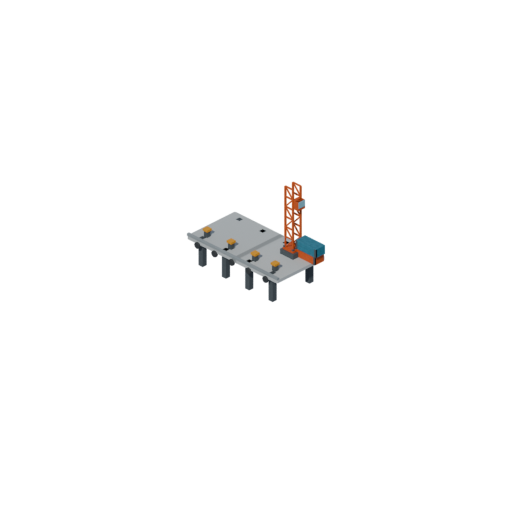
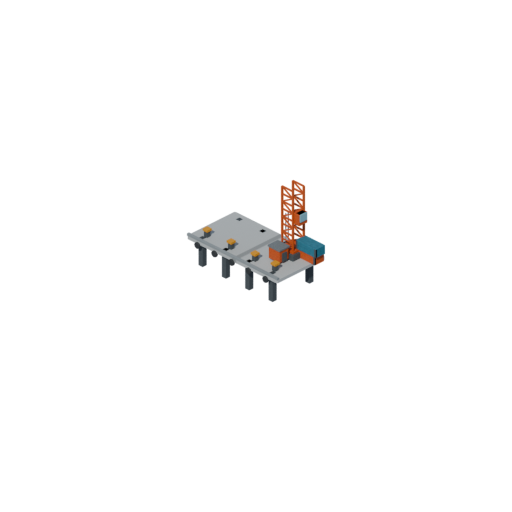
Give each port level its own crane tower
Seen on the phone: the starting port and the finished one read as the same
crane. They were. Only the BOOM changed between levels; base and mast went
into all three pier props unchanged, and the boom is the thin arm at the top
while the tower is the column that fills the silhouette.

The code said this was a constraint, and that was half true. The single
pivot_offset on the Lanca node pins ONE POINT -- TOPO, GX, GY, the place where
boom meets tower. Everything below it was always free. The comment read as if
the whole column were pinned, and nobody measured the claim.

Now each level has its own tower, and the top does not move:

  n1  derrick: a WOODEN post, two bands, two stays landing on deck eyes. No
      lattice, no cab. The only crane in the game that is not orange, because
      orange is the colour of port machinery and a temporary jetty has none.
  n2  the orange lattice as before, half-width 0.19, small cab near the top.
  n3  portal crane: lattice at 0.27 (+42% wider), a machine house on the deck,
      a bigger cab at mid height, and a ladder.

The n3 cannot grow upward, so it grows sideways and downward. Height at the
top is the one number this prop cannot touch; "bigger" comes from the area of
the column and the pieces around its foot.

Two defects the renders caught, neither of which raised an error. The n1 stays
were anchored at 0.95 from the mast and the deck ends at 1.20, so the back one
[…]

Changed region(s): [[0.5, 0.3438, 0.625, 0.5312]]

diff --git a/tools/gerar_props_iso.py b/tools/gerar_props_iso.py
@@ -1139,27 +1139,118 @@ def montar(M: dict) -> dict:
     TOPO = ALT_PIER + 2.70                # altura do encontro lança/torre
     BARCO_Y = -2.30                       # até onde a lança precisa chegar
 
-    # Base: sapata, chapa e parafusos. Três peças que custam nada e dizem que a
-    # torre foi PARAFUSADA no píer em vez de nascer dele.
-    g_base = [
-        caixa("g_sapata", (GX, GY, ALT_PIER + 0.10), (0.66, 0.66, 0.20), M["metal"]),
-        caixa("g_chapa", (GX, GY, ALT_PIER + 0.24), (0.52, 0.52, 0.08), M["laranja"]),
+    # ⚠ A TORRE É DE CADA NÍVEL, E ANTES ERA UMA SÓ — o defeito estava à vista
+    # e ninguém o via, porque a asserção olhava para o lado errado.
+    #
+    # Até aqui `g_base` e `g_mastro` entravam nos TRÊS píeres, e só a LANÇA
+    # mudava. Só que a lança é o braço fino lá em cima e a torre é a coluna que
+    # ocupa a silhueta inteira: posto o porto inicial ao lado do completo, o
+    # jogador via o mesmo guindaste duas vezes. Foi essa a queixa — *"parecem
+    # ser o mesmo, sendo que o porto inicial possui o mesmo guindaste do porto
+    # mais avançado"* —, e ela estava certa.
+    #
+    # O que de facto está preso é UM PONTO: `TOPO`, `GX` e `GY`, porque o
+    # `pivot_offset` do nó `Lanca` em `Dock.tscn` é um só para as três lanças e
+    # nomeia o topo da torre. Tudo o que fica ABAIXO desse ponto é livre — e o
+    # comentário antigo dizia "a torre é a mesma nos três" como se a amarra
+    # fosse a torre inteira, quando é só onde ela acaba.
+    #
+    #   n1  pau-de-carga: um poste de MADEIRA com dois estais e nada mais. Sem
+    #       treliça, sem cabine — quem opera puxa o cabo à mão;
+    #   n2  a treliça laranja de sempre, com a cabine encostada;
+    #   n3  pórtico: treliça mais larga, casa de máquinas no convés, cabine
+    #       maior e escada. É a mesma altura, e lê-se como o dobro.
+    def _sapata(nome, lado, alt, mat):
+        return caixa(nome, (GX, GY, ALT_PIER + alt / 2.0), (lado, lado, alt), mat)
+
+    # -- n1: o pau-de-carga ----------------------------------------------
+    # Madeira, e é a única grua do jogo que não é laranja. O laranja é a cor do
+    # MAQUINÁRIO do porto; um pontão provisório não tem maquinário, tem um pau
+    # amarrado. Tirar a cor é o que faz a diferença ler de longe.
+    mastro_n1 = [
+        _sapata("m1_sapata", 0.34, 0.14, M["metal"]),
+        caixa("m1_poste", (GX, GY, (ALT_PIER + 0.14 + TOPO + 0.05) / 2.0),
+              (0.13, 0.13, TOPO + 0.05 - ALT_PIER - 0.14), M["madeira_esc"]),
+    ]
+    # Duas cintas de metal: sem elas o poste lê como uma ripa espetada.
+    for h in (0.85, 1.95):
+        mastro_n1.append(caixa("m1_cinta%.2f" % h, (GX, GY, ALT_PIER + h),
+                               (0.17, 0.17, 0.07), M["metal"]))
+    # Os estais. São eles que dizem "isto está amarrado, não construído".
+    #
+    # ⚠ E ELES POUSAM NO CONVÉS, o que não é óbvio de conferir. A primeira
+    # versão amarrava a ±0,95 de `GY`, e o de trás caía em `y = 1,50` — meia
+    # unidade PARA ALÉM da beira, que está em 1,20. No render ele acabava no
+    # ar, e nada reprovava: um cabo que não chega a lado nenhum passa em todas
+    # as asserções que este projeto tem. Com ±0,62 os dois pousam, e levam
+    # olhal para pousarem em ALGUMA COISA.
+    for sy in (-0.62, 0.62):
+        mastro_n1.append(barra("m1_estai%.2f" % sy, (GX, GY, TOPO - 0.25),
+                               (GX, GY + sy, ALT_PIER + 0.08), 0.026, M["metal"]))
+        mastro_n1.append(caixa("m1_olhal%.2f" % sy, (GX, GY + sy, ALT_PIER + 0.06),
+                               (0.11, 0.11, 0.12), M["metal"]))
+
+    # -- n2: a treliça de sempre -----------------------------------------
+    base_n2 = [
+        _sapata("m2_sapata", 0.66, 0.20, M["metal"]),
+        caixa("m2_chapa", (GX, GY, ALT_PIER + 0.24), (0.52, 0.52, 0.08), M["laranja"]),
     ]
     for sx in (-0.21, 0.21):
         for sy in (-0.21, 0.21):
-            g_base.append(caixa("g_parafuso_%.2f_%.2f" % (sx, sy),
-                                (GX + sx, GY + sy, ALT_PIER + 0.30),
-                                (0.08, 0.08, 0.08), M["metal"]))
-
-    # Torre vazada + cabine do operador encostada nela.
-    g_mastro = trelica("g_torre", (GX, GY, ALT_PIER + 0.28), (GX, GY, TOPO + 0.05),
-                       0.19, M["laranja"], montantes=6, esp=0.052)
-    g_mastro += [
-        caixa("g_cabine", (GX + 0.30, GY - 0.02, TOPO - 0.55),
+            base_n2.append(caixa("m2_parafuso_%.2f_%.2f" % (sx, sy),
+                                 (GX + sx, GY + sy, ALT_PIER + 0.30),
+                                 (0.08, 0.08, 0.08), M["metal"]))
+    mastro_n2 = base_n2 + trelica(
+        "m2_torre", (GX, GY, ALT_PIER + 0.28), (GX, GY, TOPO + 0.05),
+        0.19, M["laranja"], montantes=6, esp=0.052)
+    mastro_n2 += [
+        caixa("m2_cabine", (GX + 0.30, GY - 0.02, TOPO - 0.55),
               (0.30, 0.34, 0.34), M["laranja"]),
-        caixa("g_cabine_vidro", (GX + 0.36, GY - 0.02, TOPO - 0.50),
+        caixa("m2_cabine_vidro", (GX + 0.36, GY - 0.02, TOPO - 0.50),
               (0.22, 0.30, 0.24), M["vidro"]),
     ]
+
+    # -- n3: o pórtico ---------------------------------------------------
+    # ⚠ ELE NÃO PODE CRESCER PARA CIMA, então cresce para os LADOS e para
+    # BAIXO. A treliça vai de 0,19 a 0,27 de meia-largura (+42%), ganha uma
+    # casa de máquinas no convés e uma cabine que desce até meia altura — o
+    # olho lê "maior" pela ÁREA da coluna, não pela altura, e a altura é o
+    # único número que este prop não pode mexer.
+    mastro_n3 = [
+        _sapata("m3_sapata", 0.86, 0.24, M["metal"]),
+        caixa("m3_chapa", (GX, GY, ALT_PIER + 0.28), (0.70, 0.70, 0.08), M["laranja"]),
+    ]
+    mastro_n3 += trelica("m3_torre", (GX, GY, ALT_PIER + 0.32),
+                         (GX, GY, TOPO + 0.05), 0.27, M["laranja"],
+                         montantes=8, esp=0.058)
+    mastro_n3 += [
+        # ⚠ CASA DE MÁQUINAS À FRENTE DA TORRE, E NÃO ATRÁS DELA. Ela nasceu
+        # em `+y`, que parecia o lado certo — é o lado de terra, e a lança
+        # varre para `-y`. Só que `+y` é `-my`, ou seja SOBE no ecrã: no render
+        # ela ficou por trás do contêiner empilhado, que está mais à frente em
+        # `x`. Peça de 0,54 pintada e tapada é a regra da boia outra vez.
+        # Em `-y` ela fica entre a torre e a água, que é onde a máquina de um
+        # guindaste de cais de facto vive, e a lança passa 2,7 acima dela.
+        caixa("m3_casa", (GX, GY - 0.72, ALT_PIER + 0.34),
+              (0.54, 0.46, 0.48), M["laranja"]),
+        caixa("m3_casa_teto", (GX, GY - 0.72, ALT_PIER + 0.60),
+              (0.60, 0.52, 0.06), M["metal_claro"]),
+        caixa("m3_casa_porta", (GX + 0.29, GY - 0.72, ALT_PIER + 0.28),
+              (0.04, 0.22, 0.34), M["metal"]),
+        # Cabine maior e mais baixa: um pórtico tem posto de operação a meia
+        # altura, e descê-la separa a silhueta da do n2 mesmo de longe.
+        caixa("m3_cabine", (GX + 0.38, GY - 0.04, TOPO - 1.05),
+              (0.34, 0.40, 0.44), M["laranja"]),
+        caixa("m3_cabine_vidro", (GX + 0.46, GY - 0.04, TOPO - 0.98),
+              (0.24, 0.34, 0.30), M["vidro"]),
+    ]
+    # Escada lateral, do convés até a cabine. Duas barras e nada mais: a esta
+    # escala os degraus viram serrilha.
+    for sy in (-0.06, 0.06):
+        mastro_n3.append(barra("m3_escada%.2f" % sy,
+                               (GX - 0.30, GY + sy, ALT_PIER + 0.30),
+                               (GX - 0.30, GY + sy, TOPO - 1.15), 0.022,
+                               M["metal_claro"]))
 
     # Lança e contralança. O contrapeso não é enfeite: é ele que equilibra a
     # silhueta e impede a peça de ler como poste com um braço.
@@ -1340,9 +1431,9 @@ def montar(M: dict) -> dict:
     # Base e mastro entram no PRÓPRIO píer: um guindaste é o que faz uma
     # estrutura de madeira ler como porto e não como pontão de pesca. A lança
     # fica solta porque é ela que gira — e o que se move não pode estar assado.
-    grupos["pier_n1"] = estacas + deck_n1 + g_base + g_mastro
-    grupos["pier_n2"] = estacas + tabuado + g_base + g_mastro
-    grupos["pier_n3"] = estacas_aco + deck_n3 + g_base + g_mastro
+    grupos["pier_n1"] = estacas + deck_n1 + mastro_n1
+    grupos["pier_n2"] = estacas + tabuado + mastro_n2
+    grupos["pier_n3"] = estacas_aco + deck_n3 + mastro_n3
     grupos["lanca_n1"] = lanca_n1
     grupos["lanca_n2"] = g_lanca
     grupos["lanca_n3"] = lanca_n3

diff --git a/docs/design/BR_Port_Plano_Arte_Blender.md b/docs/design/BR_Port_Plano_Arte_Blender.md
@@ -450,13 +450,38 @@ renderizado e validado, e **nunca entrava numa doca**: o jogo escolhia entre
 dois cascos por um booleano. O contrato já vale de R$8.000 a R$70.000 e não
 custava nada dizê-lo com a silhueta.
 
-⚠ **A torre é a mesma nos três níveis, e isso é uma restrição e não uma
-economia.** O `pivot_offset` do nó `Lanca` em `Dock.tscn` é UM para as três
-lanças, e ele nomeia o topo da torre — que vive dentro do PÍER. Uma torre mais
-alta no n3 desencaixaria a lança ao girar, e o defeito só apareceria a meio de
-uma varrida, nunca numa captura parada. O bloco **D17** tranca as três coisas:
-o pivô cai dentro do desenho de cada lança, os três níveis são desenhos
-distintos, e os três cascos chegam à tela.
+⚠ **A TORRE ERA A MESMA NOS TRÊS, E ISSO ERA O DEFEITO — não a restrição.**
+
+Esta página afirmou durante uma sessão que a torre partilhada era uma
+imposição do `pivot_offset`. É meia verdade, e a metade que falta é a que
+importa: o pivô é UM PONTO — `TOPO`, `GX`, `GY` —, não a coluna inteira. Tudo
+o que fica abaixo dele sempre foi livre.
+
+E o preço de não ver isso apareceu no telefone. A lança é o braço fino lá em
+cima; a torre é a coluna que ocupa a silhueta. Com a mesma torre nos três, o
+porto inicial e o completo liam como **o mesmo guindaste** — foi a queixa
+exata: *"parecem ser o mesmo, sendo que o porto inicial possui o mesmo
+guindaste do porto mais avançado"*.
+
+Hoje cada nível tem torre própria, e o topo é que não se mexe:
+
+| | torre |
+|---|---|
+| **n1** | pau-de-carga: poste de MADEIRA, duas cintas, dois estais em olhal. Sem treliça e sem cabine — é a única grua do jogo que não é laranja, porque o laranja é a cor do maquinário e um pontão provisório não tem maquinário |
+| **n2** | a treliça laranja de sempre, meia-largura 0,19, cabine pequena junto ao topo |
+| **n3** | pórtico: treliça a 0,27 (+42% de largura), casa de máquinas no convés, cabine maior a meia altura e escada |
+
+**⚠ O n3 não pode crescer para CIMA, então cresce para os LADOS e para
+BAIXO.** A altura do topo é o único número que este prop não pode tocar; a
+leitura de "maior" vem da ÁREA da coluna e das peças ao pé dela.
+
+O bloco **D17** trancava só metade disto — as três asserções olhavam para a
+LANÇA e exigiam que ela cobrisse o pivô, e nenhuma perguntava se a TORRE
+chegava lá. Enquanto a torre era uma só isso não podia falhar, e por isso a
+falta não se notava; com três torres passaram a existir três maneiras de a
+lança girar em torno do vazio, nenhuma delas com erro. Hoje o D17 confere os
+dois lados, e **o defeito foi injetado para o provar**: encurtar o poste do n1
+em 0,90 faz reprovar com *"o alfa no pivô é 0.00"* e sair com código 1.
 
 ⚠ **E empilhar não é passar uma altura maior.** O contêiner de cima do n3
 nasceu com `altura_px` dobrada, que o `_no_conves` lê como caixa MAIS ALTA

diff --git a/docs/ESTADO_DO_PROJETO.md b/docs/ESTADO_DO_PROJETO.md
@@ -297,14 +297,13 @@ escorre — padrões DIRIGIDOS, atribuídos peça a peça e nunca pela paleta. O
 era a maior superfície do jogo sem desenho, e o píer melhor lia mais liso que o
 provisório.
 
-**O píer, a lança e o casco têm TRÊS NÍVEIS desde 05/09** — é a evolução do
-porto ficando visível. O píer vai de ripas de madeira com fresta a laje de
-concreto sobre estacas de aço, com defensas de pneu e contêiner empilhado; a
-lança, de um pau-de-carga sem contrapeso a uma lança longa com spreader. Quem
-escolhe é `GameState.nivel_porto()`, que só LÊ quantas estruturas estão de pé —
-a mecânica de upgrade que o GDD 7 prevê é da Fase 2 e continua por fazer, como
-a vila, que já cresce por `--nivel-vila=N` sem o jogo saber. **A torre é a mesma
-nos três**, porque o `pivot_offset` da lança é um só.
+**O píer, a lança, a TORRE e o casco têm TRÊS NÍVEIS.** O píer vai de ripas de
+madeira a laje de concreto sobre estacas de aço; a lança, de pau-de-carga a
+lança longa com spreader; a torre, de poste de madeira com estais a pórtico com
+casa de máquinas. A torre era partilhada até se ver no telefone que o porto
+inicial e o completo liam como o mesmo guindaste — só o TOPO é que não se mexe,
+por causa do `pivot_offset` único. Quem escolhe são `nivel_pier()` e
+`nivel_guindaste()`, cada um preso ao seu upgrade (`docs/decisoes/007`).
 
 Os **3 barcos do GDD** existem (pesqueiro, cargueiro médio e grande) e desde
 05/09 os TRÊS atracam, escolhidos pelo valor do contrato — o médio era gerado,

diff --git a/CLAUDE.md b/CLAUDE.md
@@ -505,6 +505,14 @@ tranca isso.
   `galpao` e `galpao_velho` partilham as paredes de propósito, então escalar
   grupo a grupo passaria duas vezes nas peças comuns e elas sairiam a `k²`,
   sem erro nenhum a apontá-lo.
+- **⚠ "A PEÇA É PARTILHADA POR RESTRIÇÃO" merece ser medida antes de aceite.**
+  A torre do guindaste era a mesma nos três níveis, e o comentário dizia que o
+  `pivot_offset` único da lança obrigava a isso. Obriga UM PONTO — o topo —,
+  não a coluna inteira; e como a torre é a coluna que ocupa a silhueta e a
+  lança é o braço fino lá em cima, o porto inicial e o completo liam como o
+  mesmo guindaste. Quando um comentário justifica uma partilha, pergunte de que
+  TAMANHO é a amarra: quase sempre é menor do que a peça que ela está a
+  segurar.
 - **Rodar um prop 90° manda metade dos detalhes para a face que a câmera não
   vê.** Só `+x` e `-y` são visíveis. Rodar o caminhão para o eixo da estrada
   punha o para-brisa a olhar certo e a janela lateral para `-x` — invisível, e
